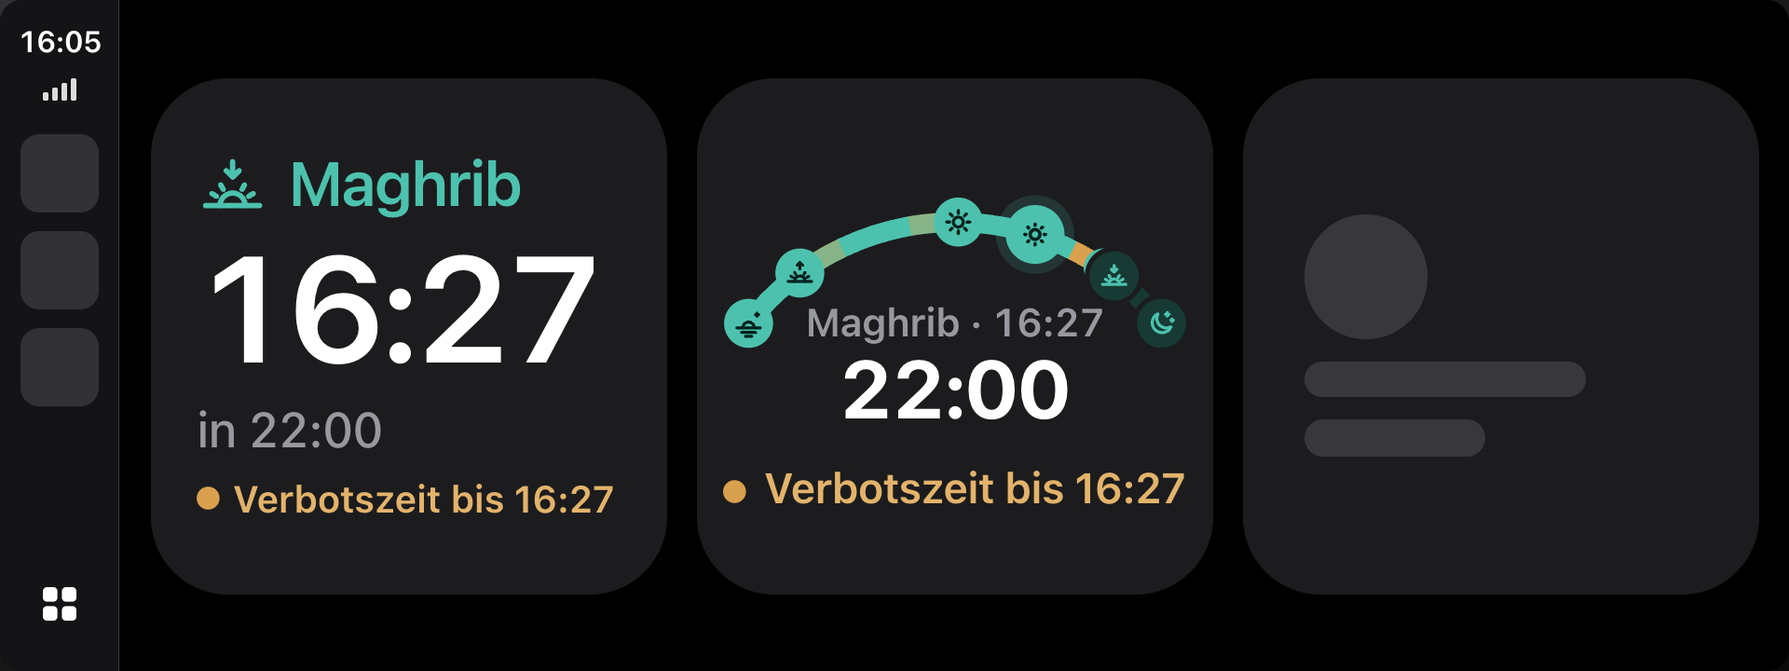
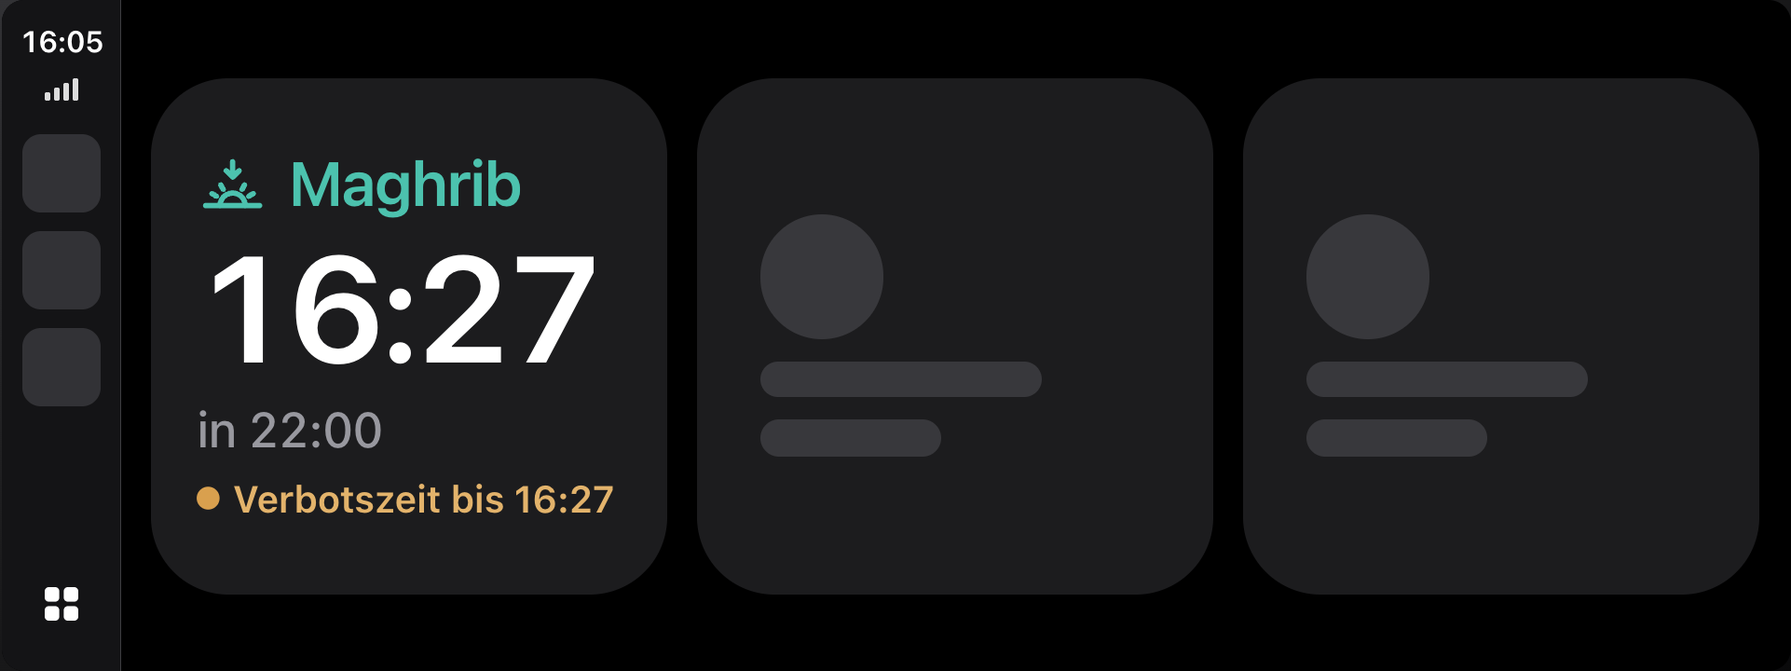
Phase 19: Tagesbogen ohne Hintergrund wie „Nächstes Gebet“
Nach dem Test am iPhone Duo (StandBy: „Da sind 7 Punkte auf dem Widget
und der Halbkreis bringt ja auch mal gar nichts.“) entschieden: „Wie
„Nächstes Gebet““. Ohne Hintergrund (StandBy, CarPlay) zeigt der
„Tagesbogen“ dieselbe große Anordnung wie „Nächstes Gebet“, kein Bogen;
dort steht er in der Galerie hinten (disfavoredLocations). Auf dem
Home-Bildschirm bleibt der Bogen.

Prototyp (CarPlay-Widgets, Tafel, StandBy), Spec § 12.2 und § 12.4,
Referenzbilder cp-10–12, cp-50–52, cp-60/61 neu, Katalog, Test, Doku.
1126 Tests grün.

diff --git a/design/prayer-times-prototype.html b/design/prayer-times-prototype.html
@@ -1153,7 +1153,7 @@ button.row:disabled{color:var(--label-3)}
 .cpw-sub.is-k{color:var(--kerahat-text)}
 .arc-cpw .arc-track,.arc-cpw .arc-done{stroke-width:6}
 .arc-cpw .arc-k.on-track{stroke-width:6}
-/* Ring um eng liegende Gebete in der Farbe der Widget-Fläche (--bg-cell; so auch ohne Hintergrund) */
+/* Ring um eng liegende Gebete in der Farbe der Widget-Fläche (--bg-cell); den Bogen gibt es nur mit Hintergrund */
 .arc-cpw .pm.is-tight .pm-c{stroke:var(--bg-cell)}
 .arc-cpw .arc-now{filter:none}
 .arc-cpw .arc-now circle{fill:#fff;stroke:var(--accent);stroke-width:2}
@@ -1216,6 +1216,7 @@ button.row:disabled{color:var(--label-3)}
 .sb-scr{position:relative;display:flex;align-items:center;justify-content:center;gap:44px;width:844px;height:390px;overflow:hidden;border-radius:52px;
   background:#000;color:var(--label);font-family:var(--font);text-align:start;letter-spacing:-.2px}
 .sb-slot{position:relative;flex:none;width:310px;height:310px}
+.sb-scr{--cp-ph:rgba(120,120,128,.3)}
 
 @media (prefers-reduced-motion:reduce){
   *,*::before,*::after{animation-duration:.01ms!important;transition-duration:.01ms!important}
@@ -3442,7 +3443,9 @@ function cpwNext(ph){
     <div class="cpw-in" data-tick="wcount">${t('wIn',{t:cdDigital(ph.remaining)})}</div>
     ${k ? `<div class="cpw-k"><i class="k-dot" aria-hidden="true"></i><span>${t('kerahatNow',{b:fmt(k.b)})}</span></div>` : ''}</div>`;
 }
-/* Widget „Tagesbogen“ (§ 12.2): der Bogen mit Sonnenaufgang und Verbotszeiten (§ 9.11, § 9.14, § 10.1) */
+/* Widget „Tagesbogen“ (§ 12.2): der Bogen mit Sonnenaufgang und Verbotszeiten (§ 9.11, § 9.14, § 10.1) – nur mit Hintergrund,
+   auf dem Home-Bildschirm. Nachtrag nach dem Test am Gerät (25.11.2026): Ohne Hintergrund (StandBy, CarPlay) zeigt es dieselbe
+   große Anordnung wie „Nächstes Gebet“ (`cpwNext()`); aus der Entfernung sagen der Halbkreis und seine Punkte nichts. */
 function cpwArc(ph){
   const nx = ph.next, k = activeKerahat(ph);
   return `<div class="cpw cpw-arcw" role="img" aria-label="${esc(cwLabel(ph))}"><div class="cpw-arcbox">${arcHTML(ph, 'cpw')}
@@ -3469,12 +3472,14 @@ function cwSmallHTML(ph){
   const tile = (inner, bg, cap) => `<figure><div class="cws-tile ${bg ? 'has-bg' : ''}">${inner}</div><figcaption>${cap}</figcaption></figure>`;
   return `<div class="cw-board cw-wboard" data-theme="${S.sysTheme}" dir="${S.rtl ? 'rtl' : 'ltr'}" lang="${S.lang}"><div class="cws">
     ${tile(wSmallHTML(ph), false, 'Nächstes Gebet · mit Hintergrund')}${tile(cpwArc(ph), true, 'Tagesbogen · mit Hintergrund')}
-    ${tile(cpwNext(ph), false, 'Nächstes Gebet · ohne Hintergrund')}${tile(cpwArc(ph), false, 'Tagesbogen · ohne Hintergrund')}</div></div>`;
+    ${tile(cpwNext(ph), false, 'Nächstes Gebet · ohne Hintergrund')}${tile(cpwNext(ph), false, 'Tagesbogen · ohne Hintergrund')}</div></div>`;
 }
-/* StandBy (angenähert): immer dunkel, zwei Widgets ohne Hintergrund nebeneinander */
+/* StandBy (angenähert): immer dunkel, zwei Widgets ohne Hintergrund nebeneinander – links das einer anderen App, rechts Vaqt
+   (beide Widgets von Vaqt sehen hier gleich aus, § 12.4) */
 function cwStandbyHTML(ph){
   const sl = inner => `<div class="sb-slot" style="--k:${(310/CPW).toFixed(3)}">${inner}</div>`;
-  return `<div class="sb-dev"><div class="sb-scr" data-theme="dark" dir="${S.rtl ? 'rtl' : 'ltr'}" lang="${S.lang}">${sl(cpwArc(ph))}${sl(cpwNext(ph))}</div></div>`;
+  return `<div class="sb-dev"><div class="sb-scr" data-theme="dark" dir="${S.rtl ? 'rtl' : 'ltr'}" lang="${S.lang}">
+    <div class="sb-slot cp-ph-w" style="--slot:310px" aria-hidden="true"><i></i><i></i><i></i></div>${sl(cpwNext(ph))}</div></div>`;
 }
 function cwCarPlayHTML(){
   const ph = phase(nowSec()), c = CP[S.cpScreen], slot = cwSlot(c), k = (slot/CPW).toFixed(3);
@@ -3482,8 +3487,9 @@ function cwCarPlayHTML(){
   const colW = Math.round((c.w - c.rail - 36)*.36), size = S.cpScreen === 'wide' ? 'w' : 't', [W, H] = LAS[size], f = colW/W;
   const cap = {w:'CarPlay · 240 × 78 pt', t:'CarPlay · 240 × 100 pt, mit Kopfzeile', n:'CarPlay · 170 × 78 pt', watch:'Smart Stack, Apple Watch 46 mm · 194 × 80,5 pt'};
   const three = cwCols() === 3;
-  return cpFrame('cp-widgets', `CarPlay · Widgets links vom Dashboard · Vaqt „Nächstes Gebet“ und „Tagesbogen“${three ? ', rechts das Widget einer anderen App' : ''} · Anordnung angenähert`, 'cp-wgrid',
-      sl(cpwNext(ph)) + sl(cpwArc(ph)) + (three ? `<div class="cp-slot cp-ph-w" style="--slot:${slot}px" aria-hidden="true"><i></i><i></i><i></i></div>` : ''))
+  const other = `<div class="cp-slot cp-ph-w" style="--slot:${slot}px" aria-hidden="true"><i></i><i></i><i></i></div>`;
+  return cpFrame('cp-widgets', `CarPlay · Widgets links vom Dashboard · Vaqt „Nächstes Gebet“ (der „Tagesbogen“ sieht ohne Hintergrund genauso aus), daneben Widgets anderer Apps · Anordnung angenähert`, 'cp-wgrid',
+      sl(cpwNext(ph)) + other + (three ? other : ''))
     + cpFrame('cp-dash', 'CarPlay · Dashboard mit der Live-Aktivität „klein“ (ab 30 Min. vor dem Gebet), daneben Karte und Musik · angenähert', 'cp-dash',
       `<div class="cp-map" aria-hidden="true">${cpMapSVG()}</div><div class="cp-col" style="width:${colW}px">
         <div class="cp-card cp-la" style="height:${(H*f).toFixed(1)}px"><div class="las-fit" style="--k:${f.toFixed(3)}">${laSmall(ph, size)}</div></div>
@@ -3493,8 +3499,8 @@ function cwCarPlayHTML(){
     + cwFrame('cp-sizes', 'Live-Aktivität „klein“ in allen Größen von Apple · dieselbe Ansicht in CarPlay und im Smart Stack der Uhr · unten dieselbe Aktivität nach ihrem Wechsel', 568, 440,
       `<div class="cw-board"><div class="las-sizes">${['t', 'w', 'n', 'watch'].map(s => `<figure>${laSmall(ph, s)}<figcaption>${cap[s]}</figcaption></figure>`).join('')}
         ${['w', 'n'].map(s => `<figure>${laSmallEnded(ph, s)}<figcaption>Nach dem Wechsel · ${LAS[s].join(' × ')} pt</figcaption></figure>`).join('')}</div></div>`)
-    + cwFrame('cp-small', 'Die kleinen Widgets in Originalgröße: oben mit Hintergrund (Home-Bildschirm), unten ohne (StandBy, CarPlay)', 436, 440, cwSmallHTML(ph))
-    + cwFrame('cp-standby', 'StandBy (angenähert): iPhone quer, zwei kleine Widgets ohne Hintergrund, vergrößert, immer dunkel', 872, 418, cwStandbyHTML(ph));
+    + cwFrame('cp-small', 'Die kleinen Widgets in Originalgröße: oben mit Hintergrund (Home-Bildschirm), unten ohne (StandBy, CarPlay) – dort zeigt auch der „Tagesbogen“ die große Anordnung', 436, 440, cwSmallHTML(ph))
+    + cwFrame('cp-standby', 'StandBy (angenähert): iPhone quer, links das Widget einer anderen App, rechts Vaqt „Nächstes Gebet“ (der „Tagesbogen“ sieht hier genauso aus), vergrößert, immer dunkel', 872, 418, cwStandbyHTML(ph));
 }
 function cwLayout(){
   if (S.view !== 'carplay') return false;
@@ -3514,7 +3520,7 @@ function renderPanel(){
   const jump = (v, l) => `<button class="pn-btn" data-act="jump" data-v="${v}" data-fkey="pn-j-${v}">${l}</button>`;
   document.getElementById('panel').innerHTML = `
     <div class="pn-title" lang="de">Vaqt · iOS-Prototyp</div><div class="pn-sub" lang="de">Design-Referenz für die SwiftUI-App · Spec v0.12 (Phase 19: CarPlay und StandBy)</div>
-    <section class="pn-sec pn-chg" lang="de"><h3>Phase 19: CarPlay und StandBy (25.11.2026)</h3><p class="pn-chg-lead">Spec v0.12 § 12. Aus dem Vorschlag vom 24.11.2026, ohne eigene CarPlay-App und ohne Apple Watch. Stil, Grundfarbe, Uhrzeit, Stadt, Sprache und Hell/Dunkel gelten auch hier. Zum Ansehen antippen.</p>
+    <section class="pn-sec pn-chg" lang="de"><h3>Phase 19: CarPlay und StandBy (25.11.2026)</h3><p class="pn-chg-lead">Spec v0.12 § 12. Aus dem Vorschlag vom 24.11.2026, ohne eigene CarPlay-App und ohne Apple Watch. Nach dem Test am Gerät: Der „Tagesbogen“ zeigt ohne Hintergrund die Anordnung von „Nächstes Gebet“. Stil, Grundfarbe, Uhrzeit, Stadt, Sprache und Hell/Dunkel gelten auch hier. Zum Ansehen antippen.</p>
       <ol class="pn-chg-list">${[['cp-widgets','CarPlay: Widgets links vom Dashboard'],['cp-dash','CarPlay: Dashboard mit Live-Aktivität „klein“'],['cp-alert','CarPlay: Live-Aktivität als Hinweis'],['cp-sizes','Live-Aktivität „klein“ in allen Größen'],
           ['cp-small','Kleine Widgets mit und ohne Hintergrund'],['cp-standby','StandBy'],['cp-k','In der Verbotszeit (vor Maghrib)']]
         .map(([v, l]) => `<li><button class="pn-btn" data-act="cp" data-v="${v}" data-fkey="pn-cp-${v}">${l}</button></li>`).join('')}</ol>

diff --git a/Packages/DesignSystem/Sources/DesignSystem/Widgets/SmallWidgetViews.swift b/Packages/DesignSystem/Sources/DesignSystem/Widgets/SmallWidgetViews.swift
@@ -145,21 +145,33 @@ struct BareSmallPrayerWidget: View {
 
 /// Das kleine Widget „Tagesbogen“ (`.cpw-arcw`, Spec § 12.2, seit Phase 19): der Tagesbogen mit Sonnenaufgang und
 /// Verbotszeiten (§ 9.11, § 9.14, § 10.1), darin „Maghrib · 16:27“ und der Countdown, darunter der Ort – während
-/// einer Verbotszeit „Verbotszeit bis …“. Mit Hintergrund auf dem Home-Bildschirm, ohne in StandBy und CarPlay; die
-/// Anordnung ist dieselbe, den Hintergrund setzt die Extension.
+/// einer Verbotszeit „Verbotszeit bis …“. Den Bogen zeigt es nur mit Hintergrund, auf dem Home-Bildschirm; den
+/// Hintergrund setzt die Extension.
 ///
-/// Die Schrift wächst wie im Rechteck des Sperrbildschirms nicht mit Dynamic Type: Der Text steht im Bogen, und der hat
-/// eine feste Größe.
+/// Ohne Hintergrund – in StandBy und CarPlay – zeigt es dieselbe große Anordnung wie „Nächstes Gebet“ (§ 12.1):
+/// Aus der Entfernung sagen der Halbkreis und seine sieben Punkte nichts (entschieden am 25.11.2026 nach dem Test am
+/// Gerät).
+///
+/// Die Schrift im Bogen wächst wie im Rechteck des Sperrbildschirms nicht mit Dynamic Type: Der Text steht im Bogen, und
+/// der hat eine feste Größe.
 public struct SmallArcPrayerWidget: View {
     private let content: PrayerWidgetContent
+    private let showsBackground: Bool
 
-    public init(content: PrayerWidgetContent) {
+    /// - Parameter showsBackground: ob das Widget mit seinem Hintergrund erscheint – in der Extension
+    ///   `showsWidgetContainerBackground`; ohne (StandBy, CarPlay) die Anordnung von „Nächstes Gebet“.
+    public init(content: PrayerWidgetContent, showsBackground: Bool = true) {
         self.content = content
+        self.showsBackground = showsBackground
     }
 
     /// Die Zeilen (Spec § 12.2): im Bogen Gebet und Uhrzeit und der Countdown, darunter der Ort mit dem Pfeil beim
-    /// aktuellen Standort – oder während einer Verbotszeit „Verbotszeit bis …“. Ohne Zeiten oder Ort der Hinweis.
-    public nonisolated static func lines(for content: PrayerWidgetContent) -> [SmallWidgetLine] {
+    /// aktuellen Standort – oder während einer Verbotszeit „Verbotszeit bis …“. Ohne Zeiten oder Ort der Hinweis. Ohne
+    /// Hintergrund dieselben Zeilen wie „Nächstes Gebet“ ohne Hintergrund.
+    public nonisolated static func lines(for content: PrayerWidgetContent, showsBackground: Bool = true) -> [SmallWidgetLine] {
+        if !showsBackground {
+            return SmallPrayerWidget.lines(for: content, showsBackground: false)
+        }
         switch content.state {
         case .times(let snapshot):
             let name = snapshot.next.prayer.localizedName + " · " + WidgetTexts.time(of: snapshot.next, in: snapshot)
@@ -174,6 +186,14 @@ public struct SmallArcPrayerWidget: View {
     }
 
     public var body: some View {
+        if showsBackground {
+            arcBody
+        } else {
+            SmallPrayerWidget(content: content, showsBackground: false)
+        }
+    }
+
+    private var arcBody: some View {
         Group {
             switch content.state {
             case .times(let snapshot):

diff --git a/Widgets/PrayerTimesWidget.swift b/Widgets/PrayerTimesWidget.swift
@@ -172,8 +172,9 @@ struct PrayerTimesWidget: Widget {
 }
 
 /// Das kleine Widget „Tagesbogen“ (Spec § 12.2, seit Phase 19): der Tagesbogen mit Gebet, Uhrzeit und Countdown,
-/// darunter der Ort bzw. „Verbotszeit bis …“ – auf dem Home-Bildschirm mit Hintergrund, in StandBy und CarPlay ohne.
-/// In der Galerie heißt es wie die anderen nach der App; die Beschreibung sagt, was es zeigt (`wArcDesc`).
+/// darunter der Ort bzw. „Verbotszeit bis …“ – auf dem Home-Bildschirm. In StandBy und CarPlay (ohne Hintergrund) zeigt
+/// es die Anordnung von „Nächstes Gebet“ und steht dort in der Galerie hinten. In der Galerie heißt es wie die anderen
+/// nach der App; die Beschreibung sagt, was es zeigt (`wArcDesc`).
 struct PrayerArcWidget: Widget {
     nonisolated static let kind = "PrayerArc"
 
@@ -186,18 +187,23 @@ struct PrayerArcWidget: Widget {
         .supportedFamilies([.systemSmall])
         .contentMarginsDisabled()
         .containerBackgroundRemovable(true)
+        // Ohne Hintergrund sieht es aus wie „Nächstes Gebet“ – dort zuerst das (Spec § 12.2).
+        .disfavoredLocations([.standBy, .carPlay], for: [.systemSmall])
     }
 }
 
-/// Die Ansicht des Widgets „Tagesbogen“: dieselbe Anordnung mit und ohne Hintergrund.
+/// Die Ansicht des Widgets „Tagesbogen“: mit Hintergrund der Bogen, ohne (StandBy, CarPlay) die Anordnung von
+/// „Nächstes Gebet“.
 struct PrayerArcWidgetView: View {
     let entry: PrayerEntry
+
+    @Environment(\.showsWidgetContainerBackground) private var showsBackground
 
     var body: some View {
         // Die Texte in der Sprache der App und die Grundfarbe (Spec § 11.7), bevor die Ansichten sie lesen.
         L10n.chosenLanguage = entry.language
         AccentStore.shared.accent = entry.content.style.accent
-        return SmallArcPrayerWidget(content: entry.content)
+        return SmallArcPrayerWidget(content: entry.content, showsBackground: showsBackground)
             .environment(\.locale, L10n.locale)
             .environment(\.layoutDirection, L10n.layoutDirection)
             .containerBackground(Palette.backgroundCell, for: .widget)

diff --git a/Packages/DesignSystem/Tests/DesignSystemTests/CarPlayStandByTests.swift b/Packages/DesignSystem/Tests/DesignSystemTests/CarPlayStandByTests.swift
@@ -113,6 +113,18 @@ struct CarPlayStandByTests {
         #expect(SmallArcPrayerWidget.lines(for: content("16:05:00", showKerahat: false)).last == .city("Berlin", showsArrow: true))
     }
 
+    @Test("Tagesbogen ohne Hintergrund (StandBy, CarPlay) wie „Nächstes Gebet“: kein Bogen, Uhrzeit groß, ohne Stadt",
+          arguments: ["14:25:01", "16:05:00", "07:30:00"])
+    func arcWidgetWithoutBackground(time: String) {
+        let content = content(time)
+        #expect(SmallArcPrayerWidget.lines(for: content, showsBackground: false)
+            == SmallPrayerWidget.lines(for: content, showsBackground: false))
+        #expect(!SmallArcPrayerWidget.lines(for: content, showsBackground: false)
+            .contains { if case .city = $0 { true } else { false } })
+        // Mit Hintergrund bleibt der Bogen: „Maghrib · 16:27“ im Bogen statt der Uhrzeit allein.
+        #expect(SmallArcPrayerWidget.lines(for: content) != SmallPrayerWidget.lines(for: content, showsBackground: false))
+    }
+
     @Test("Tagesbogen: die Verbotszeit endet nach der Rechtsschule – Schafii nach Sonnenaufgang 25 statt 45 Minuten")
     func arcWidgetMadhab() throws {
         let fixture = try #require(FixtureTimes.city("berlin"))

diff --git a/Packages/DesignSystem/Sources/DesignSystem/Catalog/CatalogPhase9.swift b/Packages/DesignSystem/Sources/DesignSystem/Catalog/CatalogPhase9.swift
@@ -269,7 +269,8 @@ struct CatalogCarPlay: View {
             tile(SmallPrayerWidget(content: content), frame: frames[0], background: true)
             tile(SmallArcPrayerWidget(content: content), frame: frames[1], background: true)
             tile(SmallPrayerWidget(content: content, showsBackground: false), frame: frames[2], background: false)
-            tile(SmallArcPrayerWidget(content: content), frame: frames[3], background: false)
+            // Ohne Hintergrund zeigt der „Tagesbogen“ die Anordnung von „Nächstes Gebet“ (Spec § 12.2).
+            tile(SmallArcPrayerWidget(content: content, showsBackground: false), frame: frames[3], background: false)
             if let activity = state.liveActivity {
                 ForEach(Array(CatalogOutsideMetrics.endedActivityFrames.enumerated()), id: \.offset) { _, frame in
                     CatalogSmallActivity(content: activity, isStale: true, size: frame.size)

diff --git a/design/prayer-times-design-spec.md b/design/prayer-times-design-spec.md
@@ -484,12 +484,14 @@ What Apple allows (iOS 26):
 - The timeline of the small family also has entries at the start and end of each prohibited window, so that line appears and disappears on time.
 
 ### 12.2 New small widget "Tagesbogen"
-- `systemSmall` only: Home Screen with background (`--bg-cell`), StandBy and CarPlay without. Gallery name "Vaqt" like the other widgets, description `wArcDesc` ("Der Tagesbogen mit dem nächsten Gebet und den Verbotszeiten.").
-- Layout (158 × 158 reference), a centred column with padding 8 / 6:
+- `systemSmall` only. Gallery name "Vaqt" like the other widgets, description `wArcDesc` ("Der Tagesbogen mit dem nächsten Gebet und den Verbotszeiten.").
+- **With background** (Home Screen, `--bg-cell`) it shows the arc as below.
+- **Without background** (StandBy, CarPlay) it shows the arrangement of § 12.1, exactly like "Nächstes Gebet" – no arc. Decided by the product owner on 25.11.2026 after the test on the device ("Wie „Nächstes Gebet“"): from a distance the half circle and its seven points (six events and the knob) say nothing. In StandBy and CarPlay the gallery lists it after "Nächstes Gebet" (`disfavoredLocations`).
+- Layout with background (158 × 158 reference), a centred column with padding 8 / 6:
   - the arc `ARCS.cpw`, 146 × 84: centre 73 / 100, radius 80, ends at 0.66 rad; markers 15 pt with a 9.5 pt symbol, the current one 18 pt with a 10.5 pt symbol and a 12 pt glow; track 6 pt, kerahat 6 pt on the track (minimum length § 10.1); knob 5 pt, white with a 2 pt accent ring, no shadow; no times; sunrise as a marker (§ 9.14);
   - inside the arc "{p} · {time}" (12 pt semibold, secondary) and the countdown (25 pt rounded bold, tracking −0.3), flush with the bottom of the arc;
   - 10 pt below: the location arrow (accent) and the city, 13 pt semibold, secondary – during a prohibited time the kerahat dot and "Verbotszeit bis …" in `--kerahat-text`.
-- Colours as the Home arc: accent, `--arc-track`, `--kerahat`, violet for warm accents. The ring around close markers is `--bg-cell`, with and without background.
+- Colours as the Home arc: accent, `--arc-track`, `--kerahat`, violet for warm accents. The ring around close markers is `--bg-cell`.
 - Timeline from `WidgetTimeline`: an entry at each event, every 10 minutes between Fajr and Isha for the knob, and at the start and end of each prohibited window (as the Lock Screen rectangle).
 
 ### 12.3 Live Activity "small"
@@ -500,16 +502,16 @@ What Apple allows (iOS 26):
 - After the change (`staleDate`, § 10.3): two lines, centred – app icon and "{p} · {time}", below "hat begonnen" (`laBegan`) or, for the green part before a prohibited time, "Verbotszeit ab …" (`kerahatFrom`). The single line of the Lock Screen does not fit into 170 pt.
 
 ### 12.4 StandBy
-StandBy shows the small widgets like CarPlay: without background, enlarged, always dark; both small widgets use the arrangement of § 12.1 and § 12.2. The red night mode is drawn by the system.
+StandBy shows the small widgets like CarPlay: without background, enlarged, always dark; both small widgets of Vaqt then look the same (§ 12.1). The red night mode is drawn by the system.
 
 - Debug: `-debugCatalog carplay` (the small widgets with and without background, the Live Activity "small" after the change) and `-debugCatalog live` (the Live Activity "small" in the four sizes), with `-debugTime`, `-debugAccent`, `-debugLiveStyle`, `-debugLiveInverted` as before.
-- Reference: `carplay/cp-10` … `cp-61` (`INDEX.md`).
+- Reference: `carplay/cp-10` … `cp-61` (`INDEX.md`); `cp-10`–`cp-12`, `cp-50`–`cp-52`, `cp-60`/`cp-61` show the "Tagesbogen" without background like "Nächstes Gebet" (since the test on the device).
 - Open (only the CarPlay Simulator or a car can show it): how CarPlay draws the surface behind a widget, whether the `small` family may draw its own surface (the prototype assumes it may), and how the Live Activity appears as a notice when it starts while another app fills the screen.
 
 ---
 
 ## Changelog
-- **v0.12 (25.11.2026, Phase 19):** CarPlay and StandBy (§ 12): the small widget "Nächstes Gebet" without background in its own arrangement, the new small widget "Tagesbogen", the Live Activity "small" for CarPlay and the Smart Stack of Apple Watch at full opacity; no own CarPlay app.
+- **v0.12 (25.11.2026, Phase 19):** CarPlay and StandBy (§ 12): the small widget "Nächstes Gebet" without background in its own arrangement, the new small widget "Tagesbogen" (its arc only with background; without, like "Nächstes Gebet" – after the test on the device), the Live Activity "small" for CarPlay and the Smart Stack of Apple Watch at full opacity; no own CarPlay app.
 - **v0.11 (24./25.11.2026):** Addendum to the changes before the Golden Beta (§ 11.3–11.7): sound only with the iOS default and a hint where to choose it; group "Darstellung" above "Berechnung"; onboarding with five pages (madhab as a menu) and swipe; prohibited times by madhab (Hanafi, Maliki, Schafii, Hanbali) with their own lengths, texts and info sheet sections; Settings › Stil with 24 accent colours (violet prohibited time for Orange, Gold, Sand) and six Live Activity styles at 30 %.
 - **v0.10 (24.11.2026):** Changes before the Golden Beta (§ 11): verse translations as verbatim excerpts of published translations in 15 languages, with the translation named under the card; one adhan recording (Ustadh Mmanga Muharram, DARSA TV, CC BY) instead of three placeholder voices, no Fajr variant switch.
 - **v0.9 (18.11.2026):** Changes after the first beta (§ 10): "Verbotszeit" in German and longer kerahat windows on the arc, info sheet on prohibited times, Live Activity at 30 % with orange prohibited time and compact ended activities (newest on top), Live widget at 30 %, new onboarding title, location and Live Activity hints, honest privacy texts, qada for men and women with reset, Fajr alarm (Phase 17), share link to TestFlight.

diff --git a/docs/BUILD-PLAN.md b/docs/BUILD-PLAN.md
@@ -353,11 +353,11 @@ Am 15.11.2026 hat der Nutzer zwölf Änderungen gewünscht und im Prototyp abgen
 
 *Grundlage: Spec v0.12 § 12 und die Ansicht „CarPlay“ des Prototyps, aus dem Vorschlag „CarPlay und Apple Watch“ vom 24.11.2026 (nur „ohne eigene App“). Entschieden am 25.11.2026: keine eigene CarPlay-App, die Apple Watch in den Phasen 20 bis 22 (`docs/OPEN-QUESTIONS.md`, „CarPlay und Apple Watch“). Bauplan freigegeben am 25.11.2026. Nicht für den Release am 29.11.2026; könnte ins erste Update.*
 
-*Gebaut am 25.11.2026 auf `claude/phase-19` (ab `6f5910a`), 1125 Tests grün, im Katalog gegen `carplay/cp-40`–`cp-52` abgeglichen, das Widget „Tagesbogen“ im System (Galerie, Home-Bildschirm). CarPlay Simulator und StandBy waren in Device Hub ausgegraut; Annahmen und was offen bleibt in `docs/OPEN-QUESTIONS.md` („Annahmen in Phase 19“). Noch nicht abgenommen.*
+*Gebaut am 25.11.2026 auf `claude/phase-19` (ab `6f5910a`), 1126 Tests grün, im Katalog gegen `carplay/cp-40`–`cp-52` abgeglichen, das Widget „Tagesbogen“ im System (Galerie, Home-Bildschirm). CarPlay Simulator und StandBy waren in Device Hub ausgegraut; Annahmen und was offen bleibt in `docs/OPEN-QUESTIONS.md` („Annahmen in Phase 19“). Noch nicht abgenommen.*
 
 - **Vorher:** Die CarPlay-Ansichten des Vorschlags kommen in `design/prayer-times-prototype.html` (Ansicht „CarPlay“: Widgets links vom Dashboard, Dashboard, Hinweis, Live-Aktivität „klein“ in allen Größen und nach dem Wechsel, die kleinen Widgets mit und ohne Hintergrund, StandBy), angepasst an „Stil“. Spec v0.12 § 12, 34 Referenzbilder unter `design/screenshots/carplay/` (`scripts/capture-prototype cp-`).
 - **Kleines Widget „Nächstes Gebet“:** Ohne Hintergrund (`showsWidgetContainerBackground` ist `false`, in StandBy und CarPlay) eine eigene Anordnung: Symbol und Gebet, Uhrzeit groß, „in …“, in der Verbotszeit „Verbotszeit bis …“, ohne Stadt (`SmallPrayerWidget(content:showsBackground:)`). Der Hintergrund ist entfernbar (`containerBackgroundRemovable(true)`).
-- **Neues kleines Widget „Tagesbogen“** (`PrayerArcWidget`, Art `"PrayerArc"`, nur `systemSmall`): der Bogen `ARCS.cpw` (`DayArcMetrics.smallWidget`, `DayArcStyle.smallWidget`) mit Sonnenaufgang und Verbotszeiten, darin Gebet · Uhrzeit und Countdown, darunter die Stadt bzw. „Verbotszeit bis …“ (`SmallArcPrayerWidget`). Galerie: „Vaqt“ mit der Beschreibung `wArcDesc` in 16 Sprachen.
+- **Neues kleines Widget „Tagesbogen“** (`PrayerArcWidget`, Art `"PrayerArc"`, nur `systemSmall`): der Bogen `ARCS.cpw` (`DayArcMetrics.smallWidget`, `DayArcStyle.smallWidget`) mit Sonnenaufgang und Verbotszeiten, darin Gebet · Uhrzeit und Countdown, darunter die Stadt bzw. „Verbotszeit bis …“ (`SmallArcPrayerWidget`). Galerie: „Vaqt“ mit der Beschreibung `wArcDesc` in 16 Sprachen. Nach dem Test am iPhone Duo (25.11.2026, „Wie „Nächstes Gebet““): ohne Hintergrund dieselbe Anordnung wie „Nächstes Gebet“, in StandBy und CarPlay in der Galerie hinten (`disfavoredLocations`).
 - **Live-Aktivität:** `supplementalActivityFamilies([.small])`; für `activityFamily == .small` die Ansicht `LiveActivitySmall` – die Zeichnung des Sperrbildschirm-Widgets in den Farben des Stils mit voller Deckkraft, in der Verbotszeit orange bzw. violett, Kopfzeile ab 90 pt Höhe, keine Knöpfe, nach dem Wechsel zwei Zeilen. Sperrbildschirm und Dynamic Island unverändert.
 - **PrayerCore:** `WidgetTimeline.Surface` je Widget; das kleine Widget bekommt Einträge zu Beginn und Ende jeder Verbotszeit, der „Tagesbogen“ zusätzlich alle 10 Minuten (`smallArcStep`).
 - **Katalog:** `-debugCatalog live` zeigt unten die Live-Aktivität „klein“ in vier Größen; neu `-debugCatalog carplay` mit den kleinen Widgets mit und ohne Hintergrund und „klein“ nach dem Wechsel. `scripts/compare-system cp40 … cp52w` legt sie neben die Tafeln.

diff --git a/design/screenshots/INDEX.md b/design/screenshots/INDEX.md
@@ -206,9 +206,9 @@ Aus der Ansicht „CarPlay“ des Prototyps (`scripts/capture-prototype cp-`), n
 
 | Datei | Zeigt |
 |---|---|
-| `carplay/cp-10-widgets-wide.png` (+ `-dark`) | CarPlay, wide screen: widgets left of the Dashboard – „Nächstes Gebet“ and „Tagesbogen“ without background, enlarged; a third widget of another app |
+| `carplay/cp-10-widgets-wide.png` (+ `-dark`) | CarPlay, wide screen: widgets left of the Dashboard – Vaqt „Nächstes Gebet“ without background, enlarged (the „Tagesbogen“ looks the same there), two widgets of other apps |
 | `carplay/cp-11-widgets-standard.png` (+ `-dark`) | Same on the standard screen (two widgets) |
-| `carplay/cp-12-widgets-kerahat.png` (+ `-dark`) | Same in the prohibited time (16:05): „Verbotszeit bis 16:27“ under both |
+| `carplay/cp-12-widgets-kerahat.png` (+ `-dark`) | Same in the prohibited time (16:05): „Verbotszeit bis 16:27“ |
 | `carplay/cp-20-dashboard-wide.png` (+ `-dark`) | Dashboard with map, the Live Activity „small“ (240 × 78) and music |
 | `carplay/cp-21-dashboard-standard.png` (+ `-dark`) | Same on the standard screen, Live Activity 240 × 100 with header |
 | `carplay/cp-22-dashboard-kerahat.png` | Dashboard in the prohibited time: the Live Activity orange |
@@ -217,10 +217,10 @@ Aus der Ansicht „CarPlay“ des Prototyps (`scripts/capture-prototype cp-`), n
 | `carplay/cp-41-live-small-kerahat.png` | Same in the prohibited time: orange, „Verbotszeit bis 16:27“ in the arc (flat sizes) or the header; after the change orange with „hat begonnen“ |
 | `carplay/cp-42-live-small-{arc,mono,full-inverted,arc-inverted,mono-inverted,ocean}.png` | The board in the other styles of § 11.7 and in Ozean, full opacity |
 | `carplay/cp-43-live-small-kerahat-{arc,mono,full-inverted,arc-inverted,warm}.png` | Same in the prohibited time; `warm` = accent Orange, violet instead of orange |
-| `carplay/cp-50-small-widgets.png` (+ `-dark`) | The small widgets at 158 × 158: top with background (Home Screen) – „Nächstes Gebet“ as before, the new „Tagesbogen“; bottom without background (StandBy, CarPlay) |
+| `carplay/cp-50-small-widgets.png` (+ `-dark`) | The small widgets at 158 × 158: top with background (Home Screen) – „Nächstes Gebet“ as before, the new „Tagesbogen“ with the arc; bottom without background (StandBy, CarPlay) – both the same, the large arrangement of „Nächstes Gebet“ |
 | `carplay/cp-51-small-widgets-kerahat.png` (+ `-dark`) | Same in the prohibited time |
 | `carplay/cp-52-small-widgets-ocean.png`, `cp-52-small-widgets-kerahat-warm.png` | Same in Ozean; in the prohibited time with Orange (violet) |
-| `carplay/cp-60-standby.png`, `cp-61-standby-kerahat.png` | StandBy (approximated): iPhone landscape, both small widgets without background, enlarged, dark |
+| `carplay/cp-60-standby.png`, `cp-61-standby-kerahat.png` | StandBy (approximated): iPhone landscape, left a widget of another app, right Vaqt „Nächstes Gebet“ without background (the „Tagesbogen“ looks the same), enlarged, dark |
 
 ## iPhone Duo – Phase 10
 

diff --git a/docs/REFERENCE-CHECK.md b/docs/REFERENCE-CHECK.md
@@ -8,7 +8,7 @@ Neu aus dem Prototyp sind die Tafeln und Rahmen unter `design/screenshots/carpla
 |---|---|---|
 | `carplay/cp-40`, `cp-41` | `scripts/compare-system cp40 cp41 cp40e cp41e` | stimmt – vier Größen der Live-Aktivität „klein“ (8–14 % der Pixel, Schrift und Symbole), Kopf nur in 240 × 100, „Verbotszeit bis 16:27“ im Bogen der flachen Größen; nach dem Wechsel zwei Zeilen |
 | `carplay/cp-42`, `cp-43` | `scripts/compare-system cp42a cp42m cp42fi cp42ai cp42mi cp42o cp43a cp43m cp43fi cp43ai cp43w` | stimmt – Nur Bogen mit Warnfarbe, Schwarz-weiß gestreift und grau, invertiert, Ozean, warm violett |
-| `carplay/cp-50`–`cp-52` | `scripts/compare-system cp50 cp50d cp51 cp51d cp52o cp52w` | stimmt – „Nächstes Gebet“ mit und ohne Hintergrund, „Tagesbogen“ mit und ohne, hell und dunkel, Verbotszeit, Ozean, warm (5–9 %) |
+| `carplay/cp-50`–`cp-52` | `scripts/compare-system cp50 cp50d cp51 cp51d cp52o cp52w` | stimmt – „Nächstes Gebet“ mit und ohne Hintergrund, „Tagesbogen“ mit Bogen und ohne Hintergrund wie „Nächstes Gebet“ (nach dem Test am Gerät), hell und dunkel, Verbotszeit, Ozean, warm (6–8 %) |
 | Widget „Tagesbogen“ im System | `make harness SCRIPTS=scripts/ui-harness/scripts/phase-19-system.txt` | stimmt – vierte Seite der Galerie mit Beschreibung, auf dem Home-Bildschirm um 14:25 und 16:05 |
 | CarPlay, StandBy | Device Hub › Device › „CarPlay Simulator“, „Show Standby“ | nicht geprüft – beide Punkte waren ausgegraut (`docs/OPEN-QUESTIONS.md`, „Annahmen in Phase 19“) |
 
